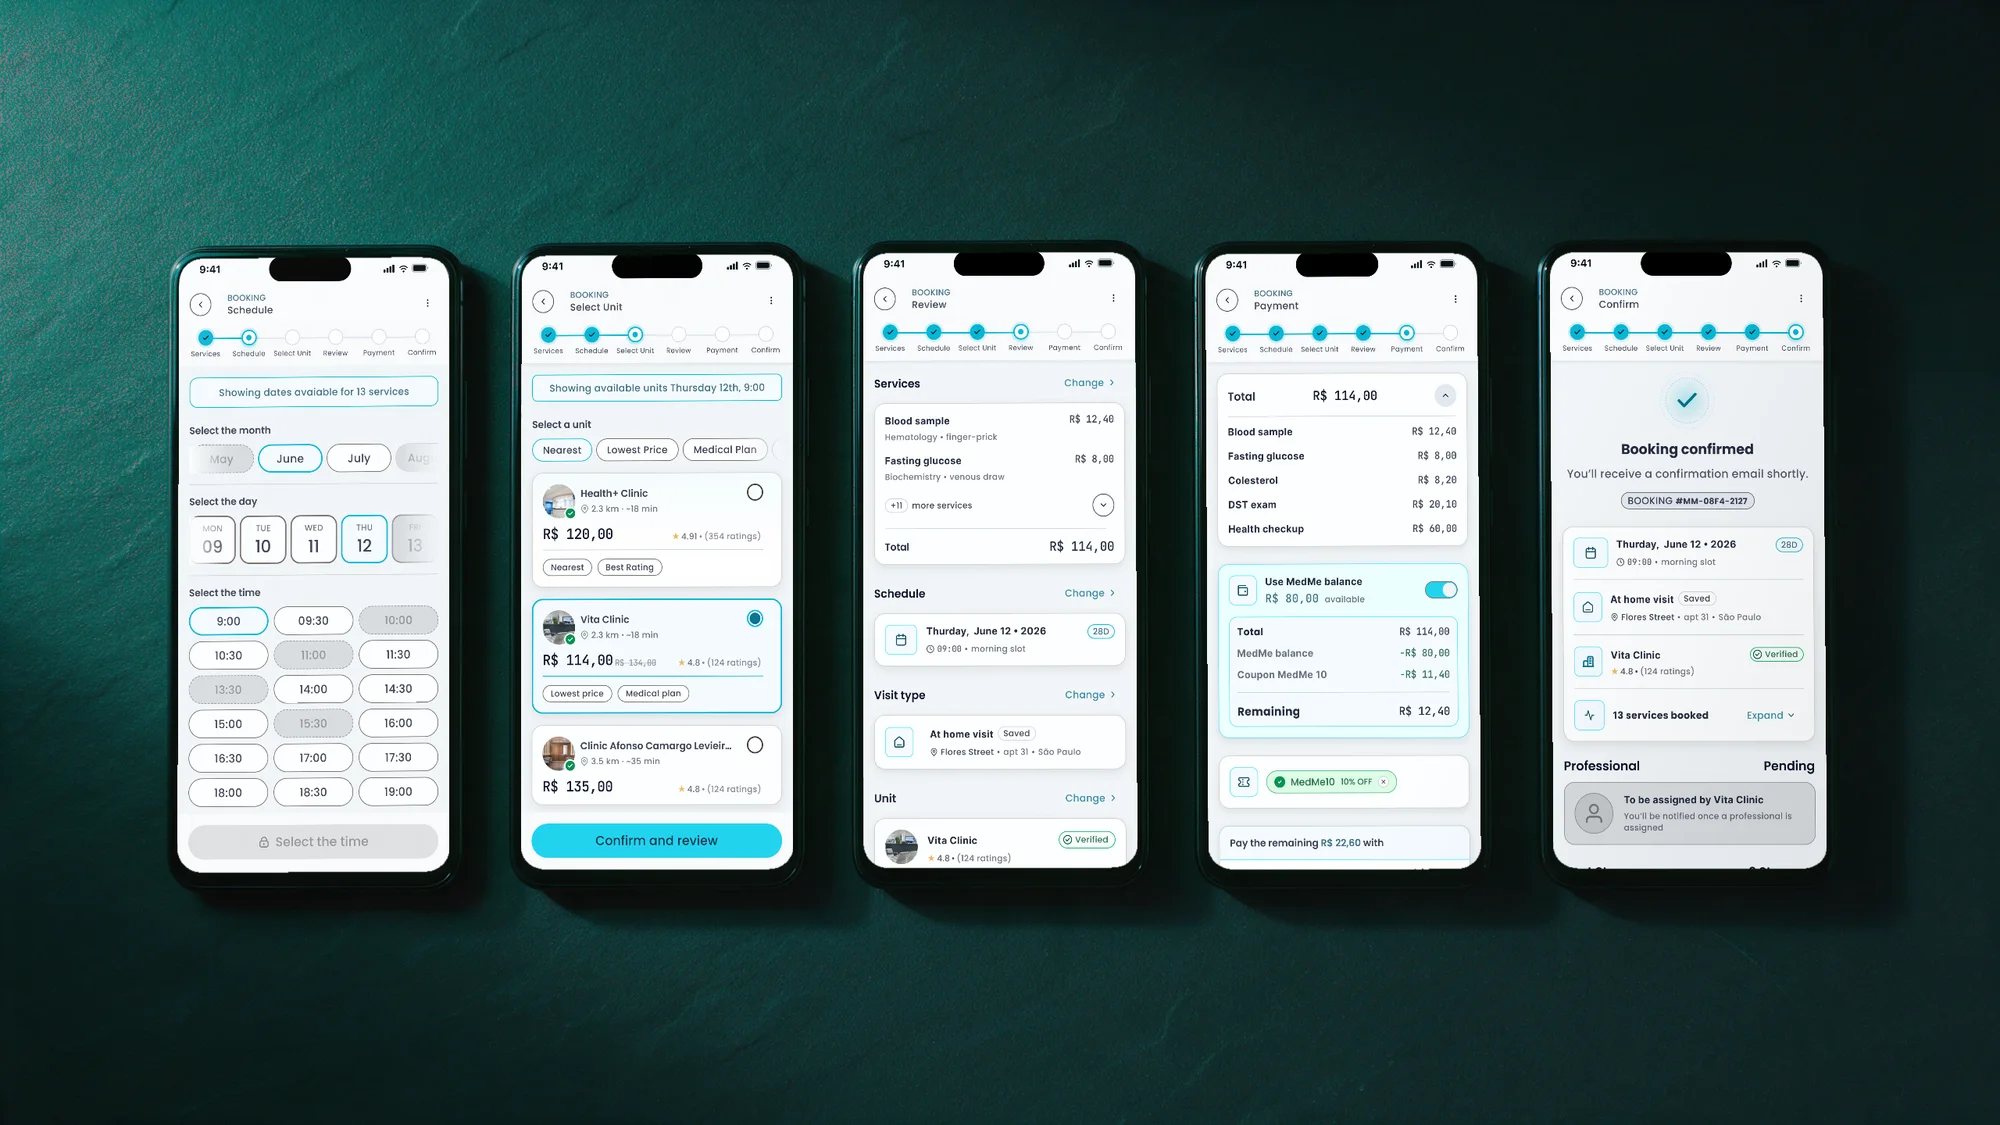
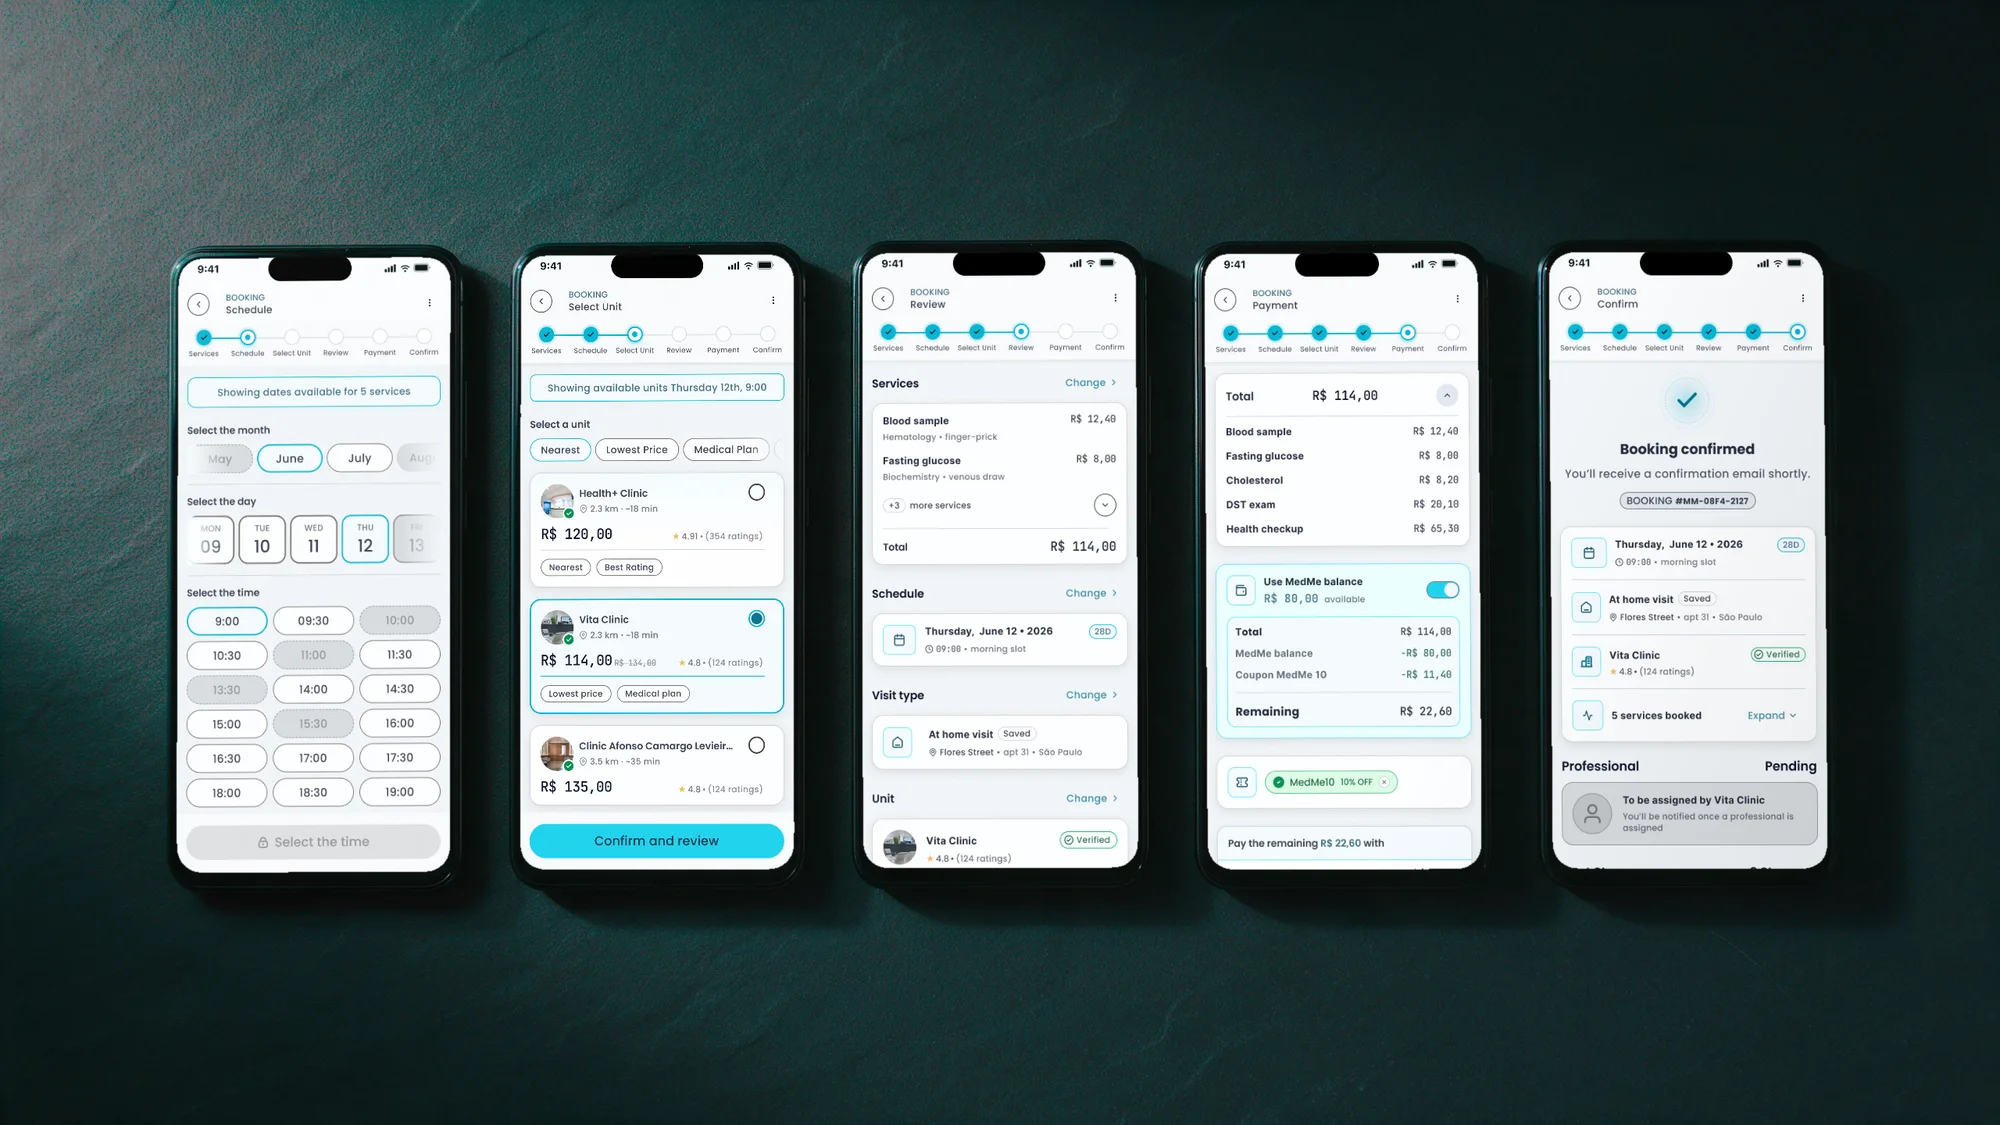
MedMe: payment disclosure board from Figma, fix screen arithmetic
- New section 06: payment closed vs open, built in Figma from the real
  Payment screens (EN + PT annotations)
- Figma source fixed: 13 services vs a 5-item breakdown, items summing
  to R$108,70 under a R$114,00 total, "Remaining R$12,40" vs R$22,60
  to pay, typos (Thurday, assaign, apointment, avaiable, Colesterol)
- Booking board and sofa scene re-composited with the corrected screens
- Selo H: Lighthouse figure labelled as performance

diff --git a/pt-br/work/medme/index.html b/pt-br/work/medme/index.html
@@ -270,6 +270,26 @@
       <figcaption class="container">Cada lado mostra o seu código e digita o do outro.</figcaption>
     </figure>
     </section>
+<section class="cs">
+      <div class="container cs-head">
+    <div class="cs-head__main">
+      <span class="cs-num" aria-hidden="true">06</span>
+      <p class="cs-eyebrow">Decisão</p>
+      <h2 class="cs-title" data-dsn-animate="up">Mostrar o total. Esconder o resto.</h2>
+    </div><p class="cs-text" data-dsn-animate="up">O pagamento abre com um número, duas chaves, um campo de cupom e três formas de pagar. O detalhamento, o que o saldo cobre e o campo de CPF só abrem quando a pessoa pede.</p></div>
+      
+      
+    <figure class="cs-artifact container">
+      <a class="cs-artifact__frame" href="/assets/img/case/medme/art-disclosure-pt.webp" target="_blank" rel="noopener">
+        <img width="2000" height="1769" src="/assets/img/case/medme/art-disclosure-pt.webp" srcset="/assets/img/case/medme/art-disclosure-pt-1000.webp 1000w, /assets/img/case/medme/art-disclosure-pt.webp 2000w" sizes="(min-width: 1200px) 1140px, 100vw" alt="A etapa de pagamento da MedMe fechada e aberta: total, chave de saldo, cupom e CPF, e o detalhe que cada um revela quando pedido" loading="lazy" decoding="async">
+      </a>
+      <figcaption>Abrir em tamanho real</figcaption>
+    </figure>
+      
+      
+      
+      
+    </section>
 <section class="cs cs--results">
       <div class="container">
         <div class="cs-head">

diff --git a/work/medme/index.html b/work/medme/index.html
@@ -270,6 +270,26 @@
       <figcaption class="container">Each side shows its own code and enters the other’s.</figcaption>
     </figure>
     </section>
+<section class="cs">
+      <div class="container cs-head">
+    <div class="cs-head__main">
+      <span class="cs-num" aria-hidden="true">06</span>
+      <p class="cs-eyebrow">Decision</p>
+      <h2 class="cs-title" data-dsn-animate="up">Show the total. Hide the rest.</h2>
+    </div><p class="cs-text" data-dsn-animate="up">Payment opens with one number, two switches, one coupon field and three ways to pay. The breakdown, what the balance covers and the CPF field open only when someone asks for them.</p></div>
+      
+      
+    <figure class="cs-artifact container">
+      <a class="cs-artifact__frame" href="/assets/img/case/medme/art-disclosure-en.webp" target="_blank" rel="noopener">
+        <img width="2000" height="1769" src="/assets/img/case/medme/art-disclosure-en.webp" srcset="/assets/img/case/medme/art-disclosure-en-1000.webp 1000w, /assets/img/case/medme/art-disclosure-en.webp 2000w" sizes="(min-width: 1200px) 1140px, 100vw" alt="The MedMe payment step closed and open: total, balance switch, coupon and CPF, and the breakdown each one reveals on request" loading="lazy" decoding="async">
+      </a>
+      <figcaption>Open full size</figcaption>
+    </figure>
+      
+      
+      
+      
+    </section>
 <section class="cs cs--results">
       <div class="container">
         <div class="cs-head">

diff --git a/pt-br/work/selo-h/index.html b/pt-br/work/selo-h/index.html
@@ -272,7 +272,7 @@
       <p class="cs-eyebrow">Resultados</p>
       <h2 class="cs-title" data-dsn-animate="up">Medidos nos primeiros 30 dias. Sem anúncio, sem prospecção.</h2>
     </div><p class="cs-text" data-dsn-animate="up">Comparados com o analytics do próprio site antigo, antes de o domínio expirar.</p></div>
-        <ul class="cs-stats cs-stats--results" data-dsn-animate="up"><li><strong>5×</strong><span>mais leads que o site antigo</span></li><li><strong>+65%</strong><span>de taxa de conversão</span></li><li><strong>−40%</strong><span>de taxa de rejeição</span></li><li><strong>2,3×</strong><span>de tempo na página</span></li><li><strong>1,4 s</strong><span>de LCP, antes 4,8 s</span></li><li><strong>100</strong><span>no Lighthouse</span></li></ul>
+        <ul class="cs-stats cs-stats--results" data-dsn-animate="up"><li><strong>5×</strong><span>mais leads que o site antigo</span></li><li><strong>+65%</strong><span>de taxa de conversão</span></li><li><strong>−40%</strong><span>de taxa de rejeição</span></li><li><strong>2,3×</strong><span>de tempo na página</span></li><li><strong>1,4 s</strong><span>de LCP, antes 4,8 s</span></li><li><strong>100</strong><span>de performance no Lighthouse</span></li></ul>
         
         <div class="cs-links"><div class="link-custom"><a href="https://seloh.org" target="_blank" rel="noopener"><span>seloh.org</span></a></div></div>
       </div>

diff --git a/work/selo-h/index.html b/work/selo-h/index.html
@@ -272,7 +272,7 @@
       <p class="cs-eyebrow">Results</p>
       <h2 class="cs-title" data-dsn-animate="up">Measured in the first 30 days. No ads, no outreach.</h2>
     </div><p class="cs-text" data-dsn-animate="up">Compared against the old site’s own analytics, before the domain lapsed.</p></div>
-        <ul class="cs-stats cs-stats--results" data-dsn-animate="up"><li><strong>5×</strong><span>more leads than the old site</span></li><li><strong>+65%</strong><span>conversion rate</span></li><li><strong>−40%</strong><span>bounce rate</span></li><li><strong>2.3×</strong><span>time on page</span></li><li><strong>1.4 s</strong><span>LCP, down from 4.8 s</span></li><li><strong>100</strong><span>Lighthouse score</span></li></ul>
+        <ul class="cs-stats cs-stats--results" data-dsn-animate="up"><li><strong>5×</strong><span>more leads than the old site</span></li><li><strong>+65%</strong><span>conversion rate</span></li><li><strong>−40%</strong><span>bounce rate</span></li><li><strong>2.3×</strong><span>time on page</span></li><li><strong>1.4 s</strong><span>LCP, down from 4.8 s</span></li><li><strong>100</strong><span>Lighthouse performance score</span></li></ul>
         
         <div class="cs-links"><div class="link-custom"><a href="https://seloh.org" target="_blank" rel="noopener"><span>seloh.org</span></a></div></div>
       </div>
